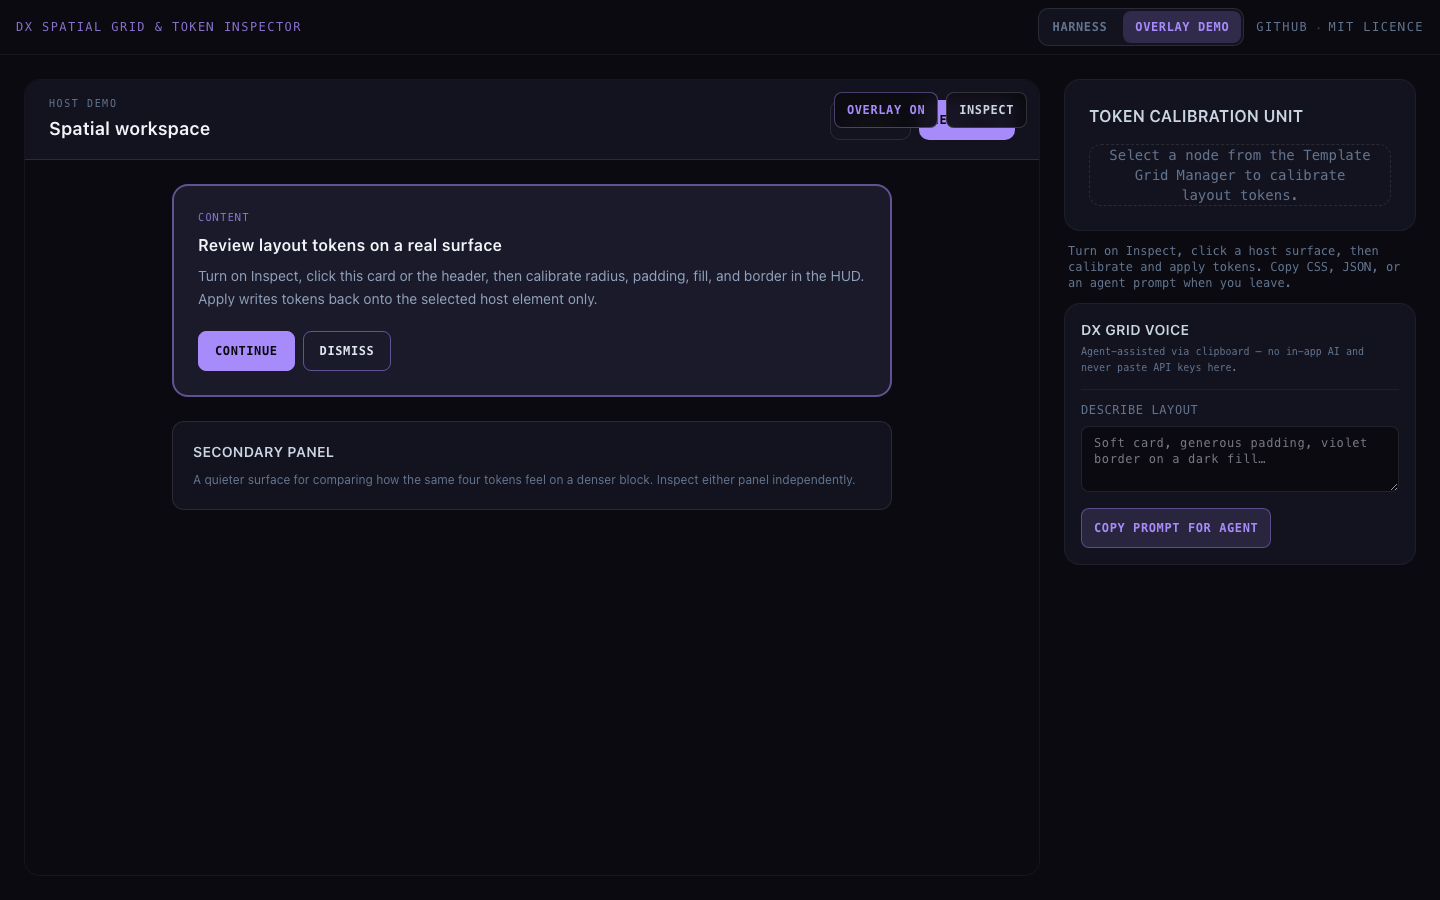
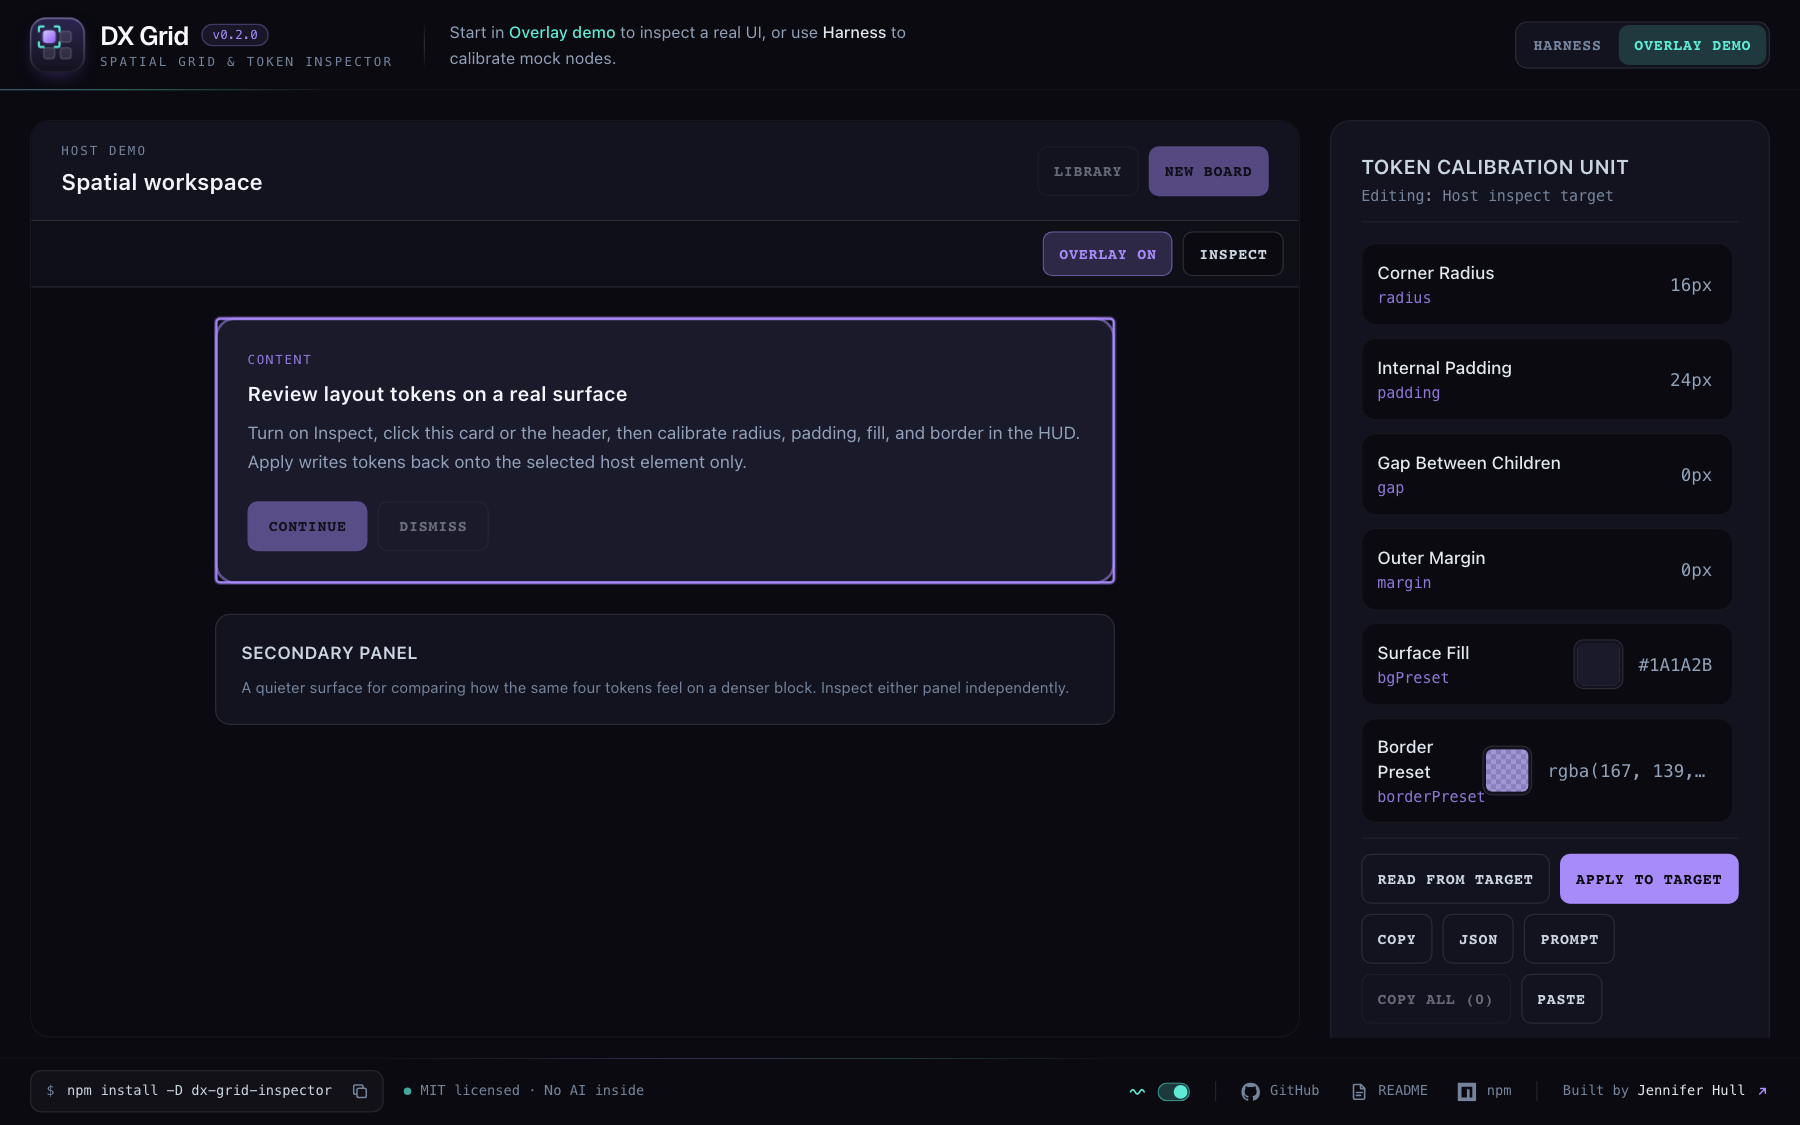
New share card and README screenshots for 0.2.0
- Link previews (WhatsApp, LinkedIn, Slack, X) get a designed 1200 by 630 card: the mark,
  DX Grid, one line on what it does, v0.2.0, the install command and No AI inside, beside
  the real colour picker. It lives at a new file name, public/og/dx-grid-0.2.0.jpg, because
  previews cache by image URL; the old og-image.png (an August screenshot) is removed.
- New title and share text, with the image's size and alt text declared. The em dashes are gone.
- README screenshots retaken from the 0.2.0 demo: the Harness with the picker open, and the
  Overlay demo inspecting the content card.
- docs/share-card/ holds the card's source and how to make the next one.

diff --git a/docs/share-card/card.html b/docs/share-card/card.html
@@ -1,0 +1,42 @@
+<!doctype html><html><head><meta charset="utf-8">
+<link rel="stylesheet" href="https://fonts.googleapis.com/css2?family=Geist:wght@400;500;600&family=Geist+Mono:wght@400;500&display=swap">
+<style>
+*{box-sizing:border-box;margin:0}
+html,body{width:1200px;height:630px;overflow:hidden;background:#0a0a10}
+.card{position:relative;width:1200px;height:630px;overflow:hidden;font-family:Geist,system-ui,sans-serif;color:#e2e8f0;
+ background:
+  radial-gradient(ellipse 620px 420px at 8% 0%, rgba(139,92,246,.30), transparent 70%),
+  radial-gradient(ellipse 560px 380px at 100% 100%, rgba(94,234,212,.16), transparent 70%),
+  #0a0a10}
+.grid{position:absolute;inset:0;
+ background-image:linear-gradient(rgba(255,255,255,.045) 1px,transparent 1px),linear-gradient(90deg,rgba(255,255,255,.045) 1px,transparent 1px);
+ background-size:48px 48px;background-position:-1px -1px;
+ -webkit-mask-image:radial-gradient(ellipse 900px 600px at 30% 40%, #000 30%, transparent 85%)}
+.left{position:absolute;left:80px;top:0;bottom:0;width:560px;display:flex;flex-direction:column;justify-content:center;gap:0}
+.mark{width:92px;height:92px;filter:drop-shadow(0 14px 30px rgba(139,92,246,.55));margin-bottom:34px}
+h1{font-size:84px;font-weight:600;letter-spacing:-.035em;line-height:.95;color:#f8fafc}
+.sub{margin-top:18px;font-family:"Geist Mono",ui-monospace,monospace;font-size:17px;font-weight:500;letter-spacing:.2em;text-transform:uppercase;color:#8b9ab3}
+.line{margin-top:30px;font-size:27px;line-height:1.38;color:#cbd5e1;letter-spacing:-.005em;max-width:520px}
+.line b{color:#f1f5f9;font-weight:500}
+.chips{margin-top:38px;display:flex;gap:10px;align-items:center;font-family:"Geist Mono",ui-monospace,monospace;font-size:16px}
+.chip{border-radius:999px;padding:8px 14px;border:1px solid rgba(255,255,255,.12);background:rgba(255,255,255,.04);color:#cbd5e1;white-space:nowrap}
+.chip.v{border-color:rgba(167,139,250,.45);background:rgba(167,139,250,.14);color:#c4b5fd}
+.chip.ai{display:flex;align-items:center;gap:8px}
+.dot{width:7px;height:7px;border-radius:50%;background:#5eead4}
+.shot{position:absolute;left:712px;top:64px;width:420px;border-radius:22px;padding:10px;
+ background:linear-gradient(180deg,rgba(255,255,255,.10),rgba(255,255,255,.03));
+ box-shadow:0 0 0 1px rgba(255,255,255,.10),0 40px 80px -20px rgba(0,0,0,.8),0 0 90px -20px rgba(139,92,246,.45)}
+.shot img{display:block;width:100%;border-radius:14px}
+.fade{position:absolute;left:0;right:0;bottom:0;height:120px;background:linear-gradient(transparent,#0a0a10 85%)}
+</style></head><body><div class="card">
+<div class="grid"></div>
+<div class="shot"><img src="ui-calibration.png"></div>
+<div class="fade"></div>
+<div class="left">
+ <svg class="mark" viewBox="0 0 40 40"><defs><linearGradient id="t" x1="0" y1="0" x2="0" y2="1"><stop offset="0" stop-color="#2c2650"/><stop offset="1" stop-color="#14121f"/></linearGradient><linearGradient id="e" x1="0" y1="0" x2="0" y2="1"><stop offset="0" stop-color="#c4b5fd" stop-opacity=".55"/><stop offset="1" stop-color="#fff" stop-opacity=".08"/></linearGradient><linearGradient id="c" x1="0" y1="0" x2="1" y2="1"><stop offset="0" stop-color="#d6c9ff"/><stop offset="1" stop-color="#8b5cf6"/></linearGradient></defs><rect x=".5" y=".5" width="39" height="39" rx="11" fill="url(#t)"/><rect x=".5" y=".5" width="39" height="39" rx="11" fill="none" stroke="url(#e)"/><g fill="#fff" fill-opacity=".1" stroke="#fff" stroke-opacity=".16"><rect x="22" y="10" width="8" height="8" rx="2.25"/><rect x="10" y="22" width="8" height="8" rx="2.25"/><rect x="22" y="22" width="8" height="8" rx="2.25"/></g><rect x="9.5" y="9.5" width="9" height="9" rx="2.5" fill="url(#c)"/><path d="M6.5 10V7.5a1 1 0 0 1 1-1H10M18 6.5h2.5a1 1 0 0 1 1 1V10M21.5 18v2.5a1 1 0 0 1-1 1H18M10 21.5H7.5a1 1 0 0 1-1-1V18" fill="none" stroke="#5eead4" stroke-width="1.6" stroke-linecap="round"/></svg>
+ <h1>DX Grid</h1>
+ <div class="sub">Spatial grid &amp; token inspector</div>
+ <p class="line">Click any element, change its tokens, and copy them out as <b>CSS</b>, <b>JSON</b> or <b>a prompt for your agent</b>.</p>
+ <div class="chips"><span class="chip v">v0.2.0</span><span class="chip">npm i -D dx-grid-inspector</span><span class="chip ai"><span class="dot"></span>No AI inside</span></div>
+</div>
+</div></body></html>

diff --git a/index.html b/index.html
@@ -18,32 +18,24 @@
       href="https://fonts.googleapis.com/css2?family=Geist:wght@600&display=swap"
       rel="stylesheet"
     />
-    <title>DX Spatial Grid &amp; Token Inspector</title>
-    <meta
-      name="description"
-      content="Public demo — spatial token calibration harness and overlay inspector. Pick a layout node, tune padding, radius, and colour, then copy tokens for your stack."
-    />
+    <title>DX Grid: spatial grid &amp; token inspector</title>
+    <meta name="description" content="Click any element in your React app, change its radius, padding and colours by eye, and copy them out as CSS, token JSON or a prompt for your agent. No AI inside." />
     <meta property="og:type" content="website" />
+    <meta property="og:site_name" content="DX Grid" />
     <meta property="og:url" content="https://dx-grid-inspector.vercel.app" />
-    <meta
-      property="og:title"
-      content="DX Spatial Grid &amp; Token Inspector"
-    />
-    <meta
-      property="og:description"
-      content="Spatial token calibration harness and overlay inspector — tune layout tokens, copy CSS or JSON, export agent prompts."
-    />
-    <meta property="og:image" content="https://dx-grid-inspector.vercel.app/og-image.png" />
+    <meta property="og:title" content="DX Grid: a spatial grid and token inspector for React" />
+    <meta property="og:description" content="Click any element in your React app, change its radius, padding and colours by eye, and copy them out as CSS, token JSON or a prompt for your agent. No AI inside." />
+    <!-- Share previews (WhatsApp above all) cache by image URL: a new card needs a new file name. -->
+    <meta property="og:image" content="https://dx-grid-inspector.vercel.app/og/dx-grid-0.2.0.jpg" />
+    <meta property="og:image:type" content="image/jpeg" />
+    <meta property="og:image:width" content="1200" />
+    <meta property="og:image:height" content="630" />
+    <meta property="og:image:alt" content="DX Grid: click any element, change its tokens, and copy them out as CSS, JSON or a prompt for your agent. Shown beside the colour picker." />
     <meta name="twitter:card" content="summary_large_image" />
-    <meta
-      name="twitter:title"
-      content="DX Spatial Grid &amp; Token Inspector"
-    />
-    <meta
-      name="twitter:description"
-      content="Spatial token calibration harness and overlay inspector — tune layout tokens, copy CSS or JSON, export agent prompts."
-    />
-    <meta name="twitter:image" content="https://dx-grid-inspector.vercel.app/og-image.png" />
+    <meta name="twitter:title" content="DX Grid: a spatial grid and token inspector for React" />
+    <meta name="twitter:description" content="Click any element in your React app, change its radius, padding and colours by eye, and copy them out as CSS, token JSON or a prompt for your agent. No AI inside." />
+    <meta name="twitter:image" content="https://dx-grid-inspector.vercel.app/og/dx-grid-0.2.0.jpg" />
+    <meta name="twitter:image:alt" content="DX Grid: click any element, change its tokens, and copy them out as CSS, JSON or a prompt for your agent. Shown beside the colour picker." />
   </head>
   <body>
     <div id="root"></div>

diff --git a/AGENTS.md b/AGENTS.md
@@ -40,22 +40,25 @@ project was never created and the deploy has never run. Treat it as untested.
 
 ## Releasing to npm
 
-Published as `dx-grid-inspector` (0.1.0 on 2026-10-02; 0.1.1, docs only, on 2026-10-03). A published version cannot be
+Published as `dx-grid-inspector` (0.1.0 on 2026-10-02; 0.1.1, docs only, on 2026-10-03; 0.2.0 on 2026-11-09). A published version cannot be
 changed, so a release only happens when the maintainer asks for one.
 
 - **`npm publish` needs a one-time code from the maintainer.** Run `npm publish --dry-run` yourself,
   then ask the maintainer to run `npm publish` in their own terminal. `prepack` runs `build:lib`, so the
   `dx:` check and the build happen on every publish.
 - **The npm page shows the README as it was published.** README edits on `main` reach
-  npm only with the next version.
+  npm only with the next version. Its two screenshots are linked to `main` on raw.githubusercontent.com,
+  so a new screenshot should show on npm without a release (expected, not yet confirmed on npm's page).
 - **A publish failing with `E404 Not Found - PUT` means logged out, not a missing
   package.** The npm login in `~/.npmrc` expires; npm answers an unauthenticated publish
   with 404. Confirm with `npm whoami` (401 = logged out), then the maintainer runs `npm login` and
   `npm publish` again. Seen 2026-10-03 on 0.1.1, one day after 0.1.0 published fine.
 - **A successful publish ends `PUT 202` and "being processed"**, and the registry can
   take a few minutes to show it. Check `dist-tags.latest` before calling it live.
-- **Tag each release `vX.Y.Z` and push the tag** (`v0.1.0`, `v0.1.1` exist). Docs-only
+- **Tag each release `vX.Y.Z` and push the tag** (`v0.1.0`, `v0.1.1`, `v0.2.0` exist). Docs-only
   changes ship as a patch.
+- **A release with a visible change gets a new share card.** How, and why it needs a new file name:
+  `docs/share-card/README.md`. In 2026-11, links shared on WhatsApp still showed an August screenshot.
 
 ## Gotchas
 

diff --git a/docs/share-card/README.md b/docs/share-card/README.md
@@ -1,0 +1,10 @@
+# Share card
+
+The image link previews show (WhatsApp, LinkedIn, Slack, X): `public/og/dx-grid-<version>.jpg`, 1200 by 630.
+
+To make one for a new version:
+
+1. Update the version chip in `card.html`. Retake `ui-calibration.png` if the picker changed (the Token Calibration Unit panel, picker open on Border Preset, at device scale 2).
+2. Open `card.html` in Chromium at a 1200 by 630 viewport, device scale 1, once Geist has loaded, and save a JPEG at quality 90. Keep it small (the 0.2.0 card is about 90 KB): some apps are said to skip large preview images, which is unverified, and small costs nothing.
+3. Save it under a **new file name** and point `og:image` and `twitter:image` in `index.html` at it. Previews cache by image URL, so overwriting the old file leaves old shares, and often new ones, showing the old card.
+4. Upload the same image on GitHub: the repository's Settings, General, Social preview. There is no API for it.
